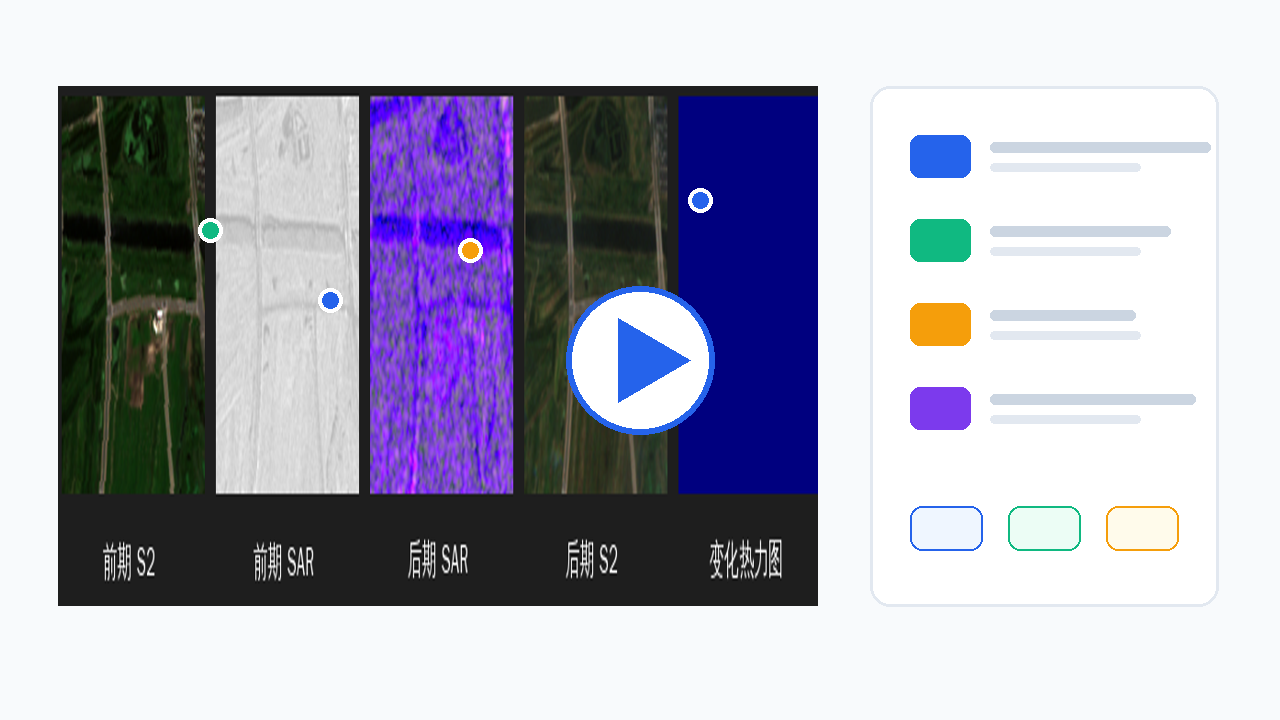
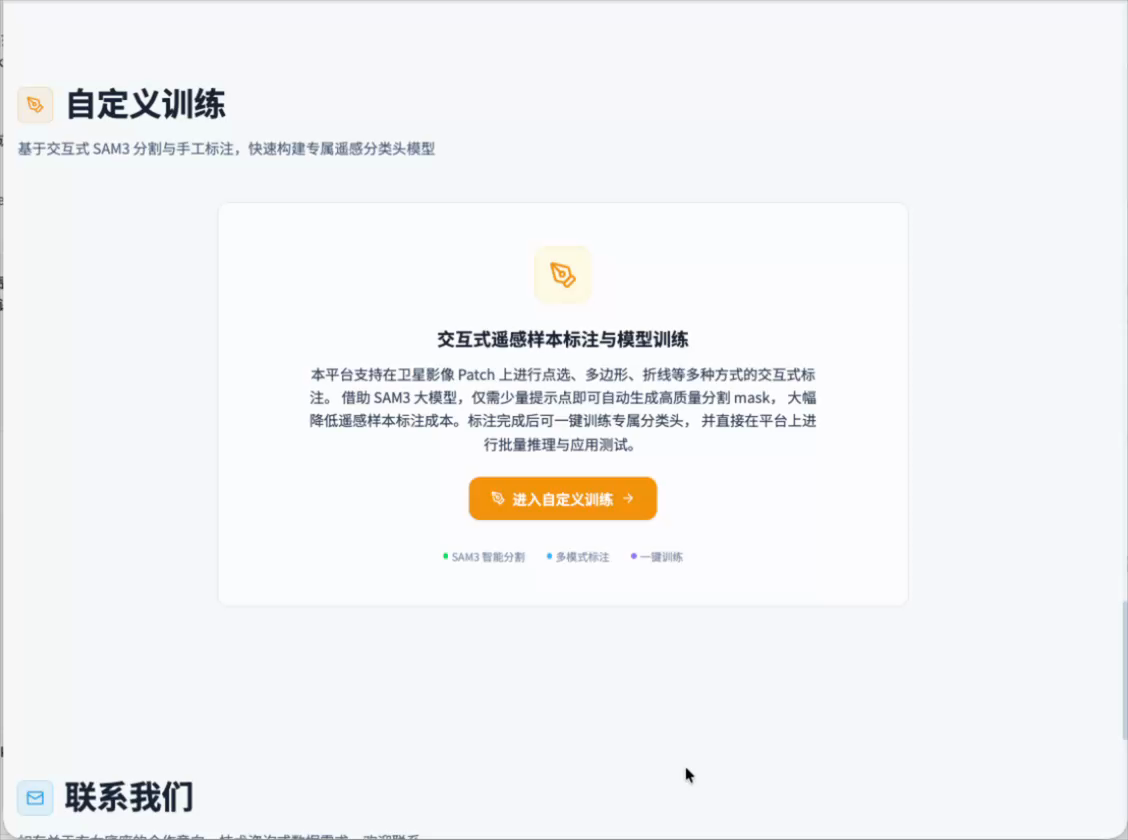
docs: refine BP slide 6 layout

diff --git a/docs/bp_deck/scripts/create_front8_deck_v2.py b/docs/bp_deck/scripts/create_front8_deck_v2.py
@@ -428,6 +428,19 @@ def difference_card(slide, head: str, aef: str, xuannv: str, x: float, y: float,
     rect(slide, x + 1.38, y + 0.72, 0.02, 0.42, fill, fill, rounded=False)
 
 
+def step_chain(slide, label: str, steps: list[str], x: float, y: float, color, fill) -> None:
+    text(slide, label, x, y + 0.13, 0.88, 0.14, 8, color, True, PP_ALIGN.CENTER)
+    start = x + 0.98
+    box_w = 0.72
+    gap = 0.18
+    for i, step in enumerate(steps):
+        sx = start + i * (box_w + gap)
+        rect(slide, sx, y, box_w, 0.42, fill, color)
+        text(slide, step, sx + 0.04, y + 0.12, box_w - 0.08, 0.12, 6, color, True, PP_ALIGN.CENTER)
+        if i < len(steps) - 1:
+            arrow(slide, sx + box_w + 0.03, y + 0.21, sx + box_w + gap - 0.03, y + 0.21, C.line, 0.7)
+
+
 def build() -> Presentation:
     prs = Presentation()
     prs.slide_width = Inches(13.333)
@@ -581,35 +594,24 @@ def build() -> Presentation:
     title(s, "06", "遥感应用正在迎来它的 GPT 时刻")
     text(s, "商业航天快速发展打开数据供给，应用层需要新的基础设施。", 1.04, 1.02, 10.70, 0.24, 10, C.muted)
 
-    picture_fit(s, IMG["space_data_boom"], 0.62, 1.28, 5.64, 3.24)
-    rect(s, 0.92, 1.46, 2.36, 0.46, C.pale_blue, C.blue)
-    text(s, "商业航天快速发展", 1.08, 1.58, 2.04, 0.14, 8, C.blue, True, PP_ALIGN.CENTER)
-    rect(s, 3.50, 1.46, 2.10, 0.46, C.mint, C.green)
-    text(s, "遥感数据海量增长", 3.66, 1.58, 1.78, 0.14, 8, C.green, True, PP_ALIGN.CENTER)
-    text(
-        s,
-        "火箭、零部件、卫星制造与发射环节正在快速成熟，遥感数据供给从稀缺走向高频、海量、多模态。像 GPT 需要先把文本转成 token，遥感也需要先把同一地物的多源、多时相观测转成可复用的地理嵌入。",
-        0.92,
-        4.72,
-        5.18,
-        0.88,
-        11,
-        C.body,
-    )
-    text(s, "地理嵌入，就是遥感数据进入规模化应用的 token。", 0.96, 5.92, 5.10, 0.22, 13, C.blue, True, PP_ALIGN.CENTER)
+    picture_fit(s, IMG["space_data_boom"], 0.58, 1.28, 5.78, 3.12)
+    arrow(s, 2.18, 4.12, 5.42, 2.08, C.blue, 2.0)
+    rect(s, 2.84, 3.26, 3.05, 0.48, C.pale_blue, C.blue)
+    text(s, "随着商业航天的发展，\n遥感数据迎来自己的井喷时刻", 3.02, 3.34, 2.68, 0.26, 8, C.blue, True, PP_ALIGN.CENTER)
+
+    rect(s, 0.86, 4.70, 5.42, 1.55, C.white, C.line)
+    text(s, "GPT 时刻的本质：数据规模 + 通用表征", 1.10, 4.92, 4.92, 0.18, 13, C.ink, True, PP_ALIGN.CENTER)
+    text(s, "商业航天让同一地物的多源、多时相影像持续堆上来。", 1.08, 5.34, 4.95, 0.16, 9, C.body, align=PP_ALIGN.CENTER)
+    text(s, "当数据规模足够大，行业需要像 token 一样的统一表征，把海量观测转成可复用的地理嵌入。", 1.08, 5.76, 4.95, 0.22, 10, C.blue, True, PP_ALIGN.CENTER)
 
     line(s, 6.58, 1.32, 6.58, 6.30, C.line, 0.8)
     text(s, "应用层：从项目制训练，到嵌入驱动的少样本适配", 6.92, 1.34, 5.42, 0.26, 14, C.ink, True)
-    rect(s, 6.98, 1.92, 2.38, 0.54, RGBColor(255, 251, 235), C.amber)
-    text(s, "传统实现", 7.16, 2.08, 0.86, 0.14, 8, C.amber, True, PP_ALIGN.CENTER)
-    text(s, "下载 - 标注 - 训练 - 重来", 8.02, 2.08, 1.20, 0.14, 6, C.body, True, PP_ALIGN.CENTER)
-    rect(s, 9.76, 1.92, 2.38, 0.54, C.mint, C.green)
-    text(s, "玄女实现", 9.94, 2.08, 0.86, 0.14, 8, C.green, True, PP_ALIGN.CENTER)
-    text(s, "嵌入 - 标注 - 任务头", 10.82, 2.08, 1.14, 0.14, 6, C.body, True, PP_ALIGN.CENTER)
+    step_chain(s, "传统实现", ["下载", "预处理", "标注", "训练", "重来"], 6.92, 1.92, C.amber, RGBColor(255, 251, 235))
+    step_chain(s, "玄女实现", ["嵌入", "少量标注", "任务头", "复用"], 6.92, 2.54, C.green, C.mint)
     movie = s.shapes.add_movie(
         str(IMG["annotation_video"]),
         Inches(7.04),
-        Inches(2.78),
+        Inches(3.24),
         Inches(5.06),
         Inches(2.84),
         poster_frame_image=str(IMG["annotation_poster"]),
@@ -617,7 +619,7 @@ def build() -> Presentation:
     )
     movie.line.color.rgb = C.line
     movie.line.width = Pt(0.8)
-    text(s, "自定义标注与任务头训练展示（点击播放）", 7.16, 5.82, 4.82, 0.18, 9, C.body, True, PP_ALIGN.CENTER)
+    text(s, "自定义标注与任务头训练展示（点击播放）", 7.16, 6.28, 4.82, 0.18, 9, C.body, True, PP_ALIGN.CENTER)
     claim(s, "当遥感数据像文本一样持续增长，地理嵌入就是遥感应用规模化的入口。", 6.82, C.blue)
 
     # 7. Three industry frictions